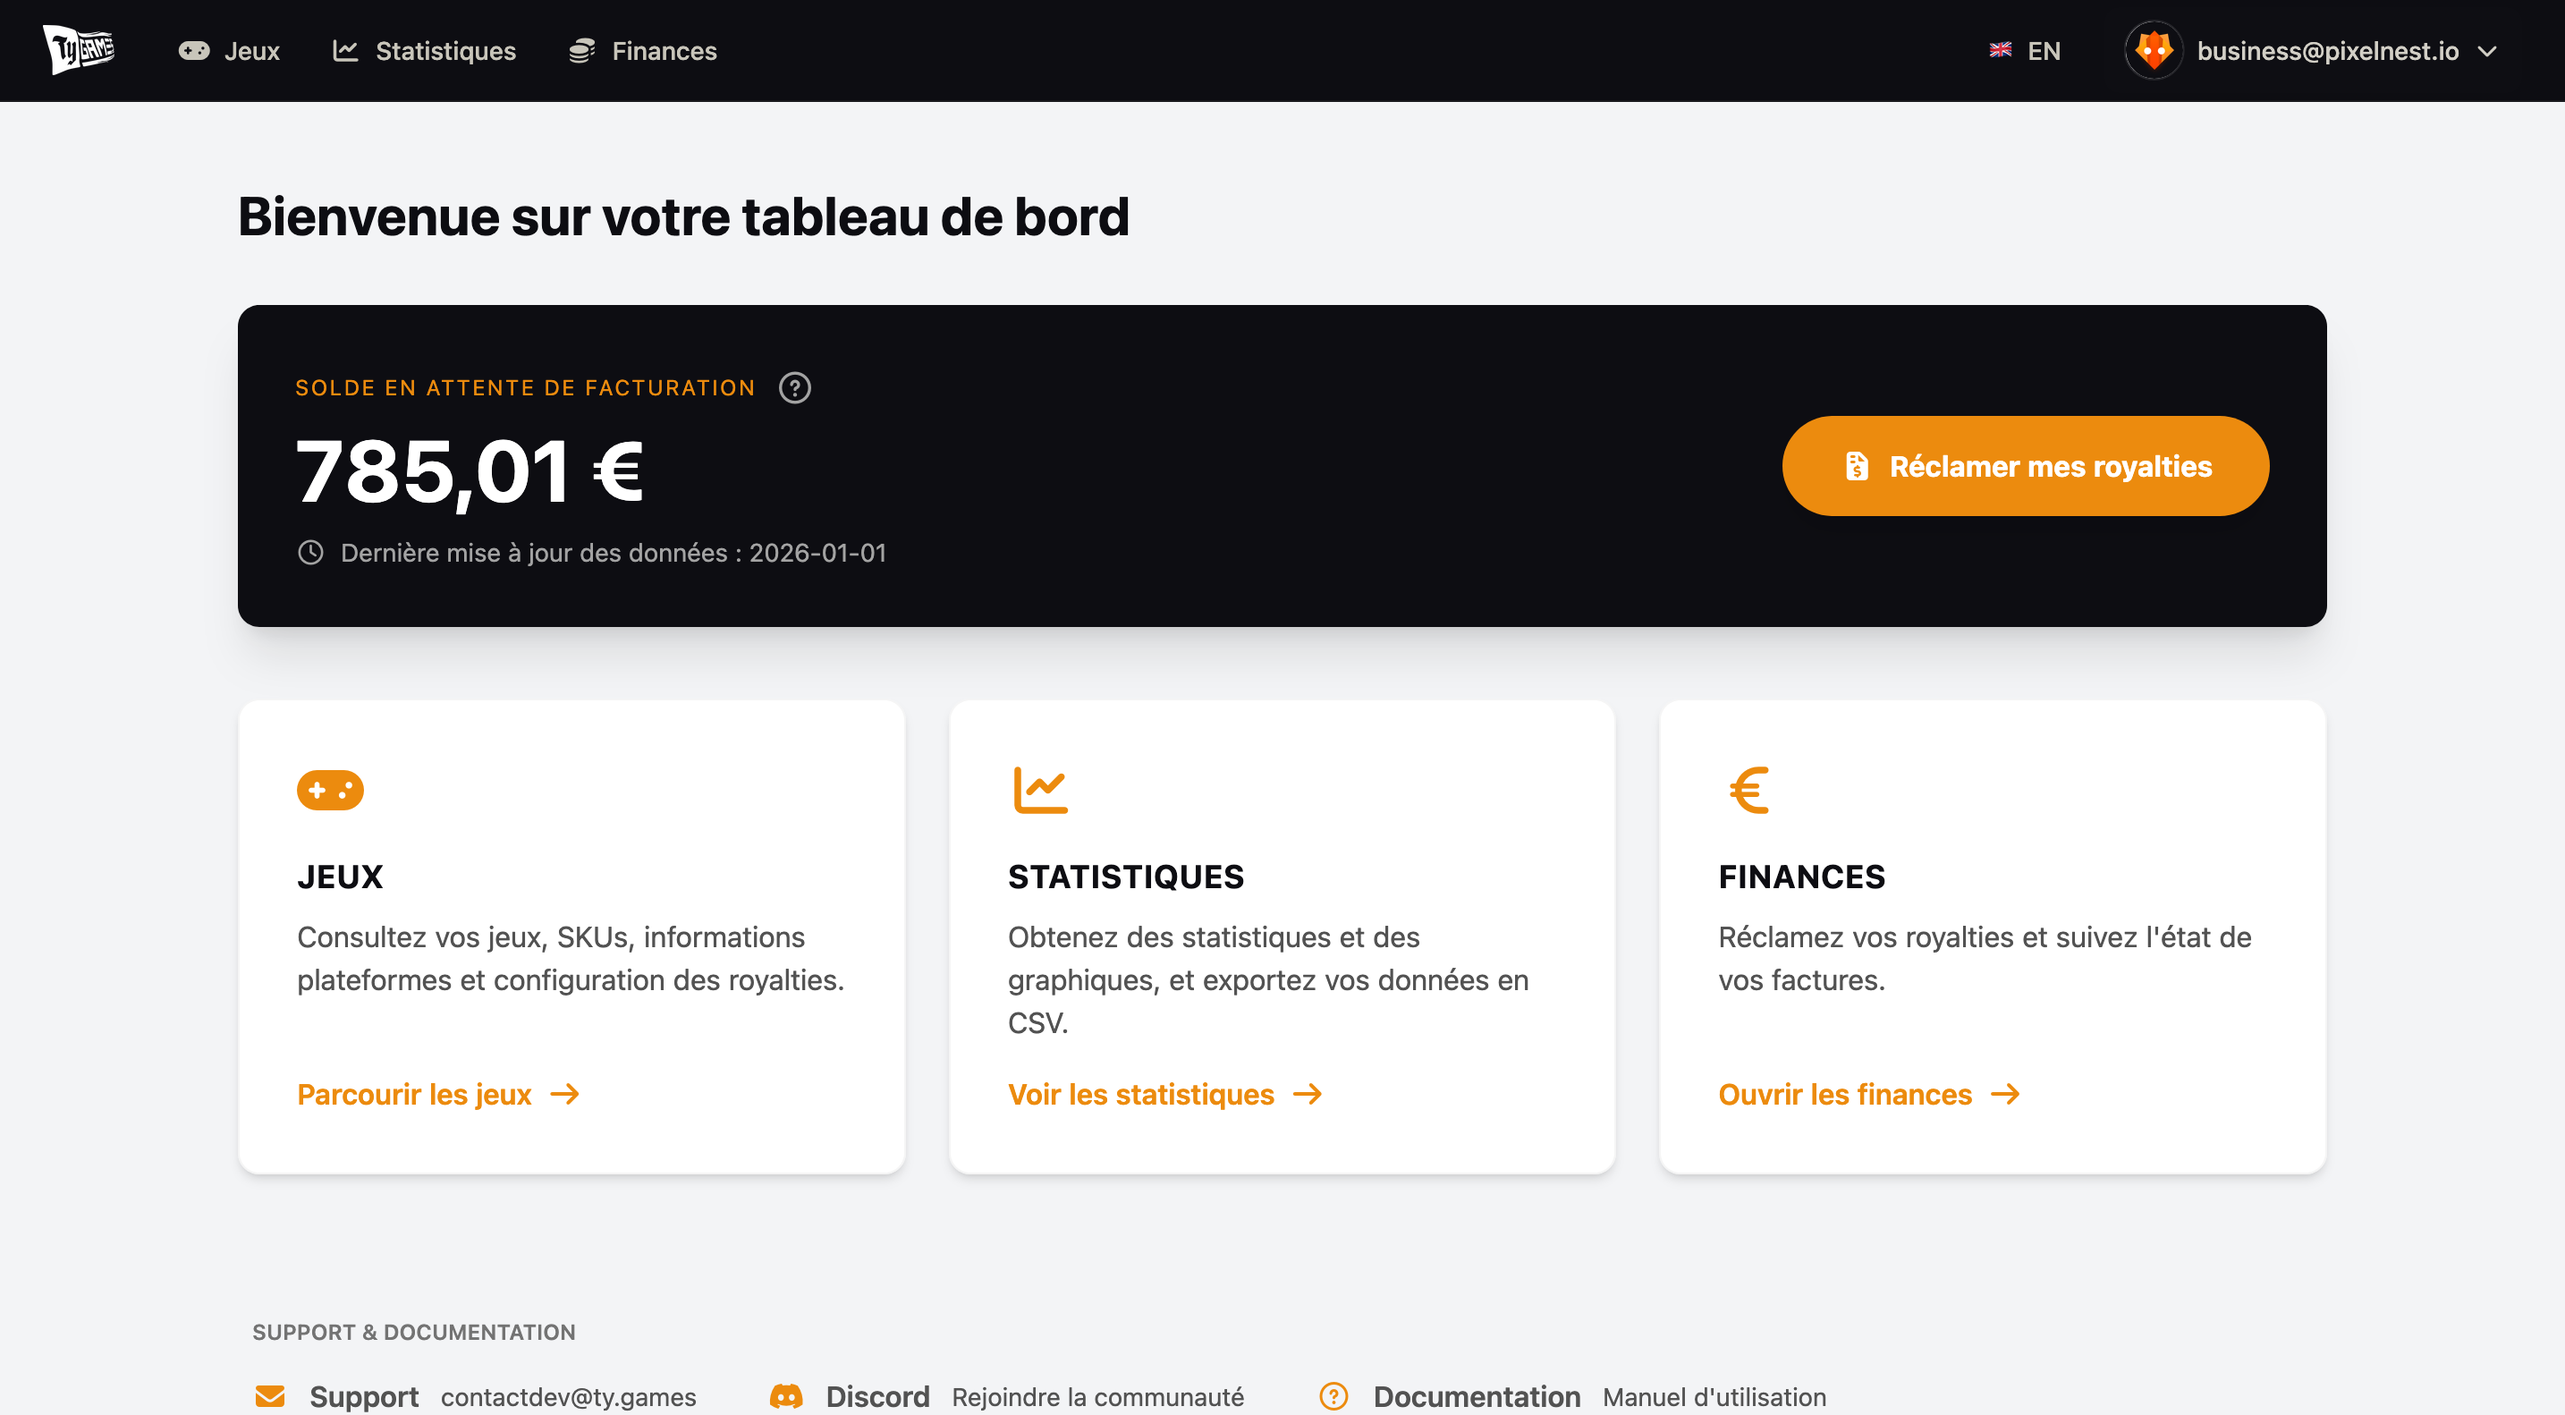
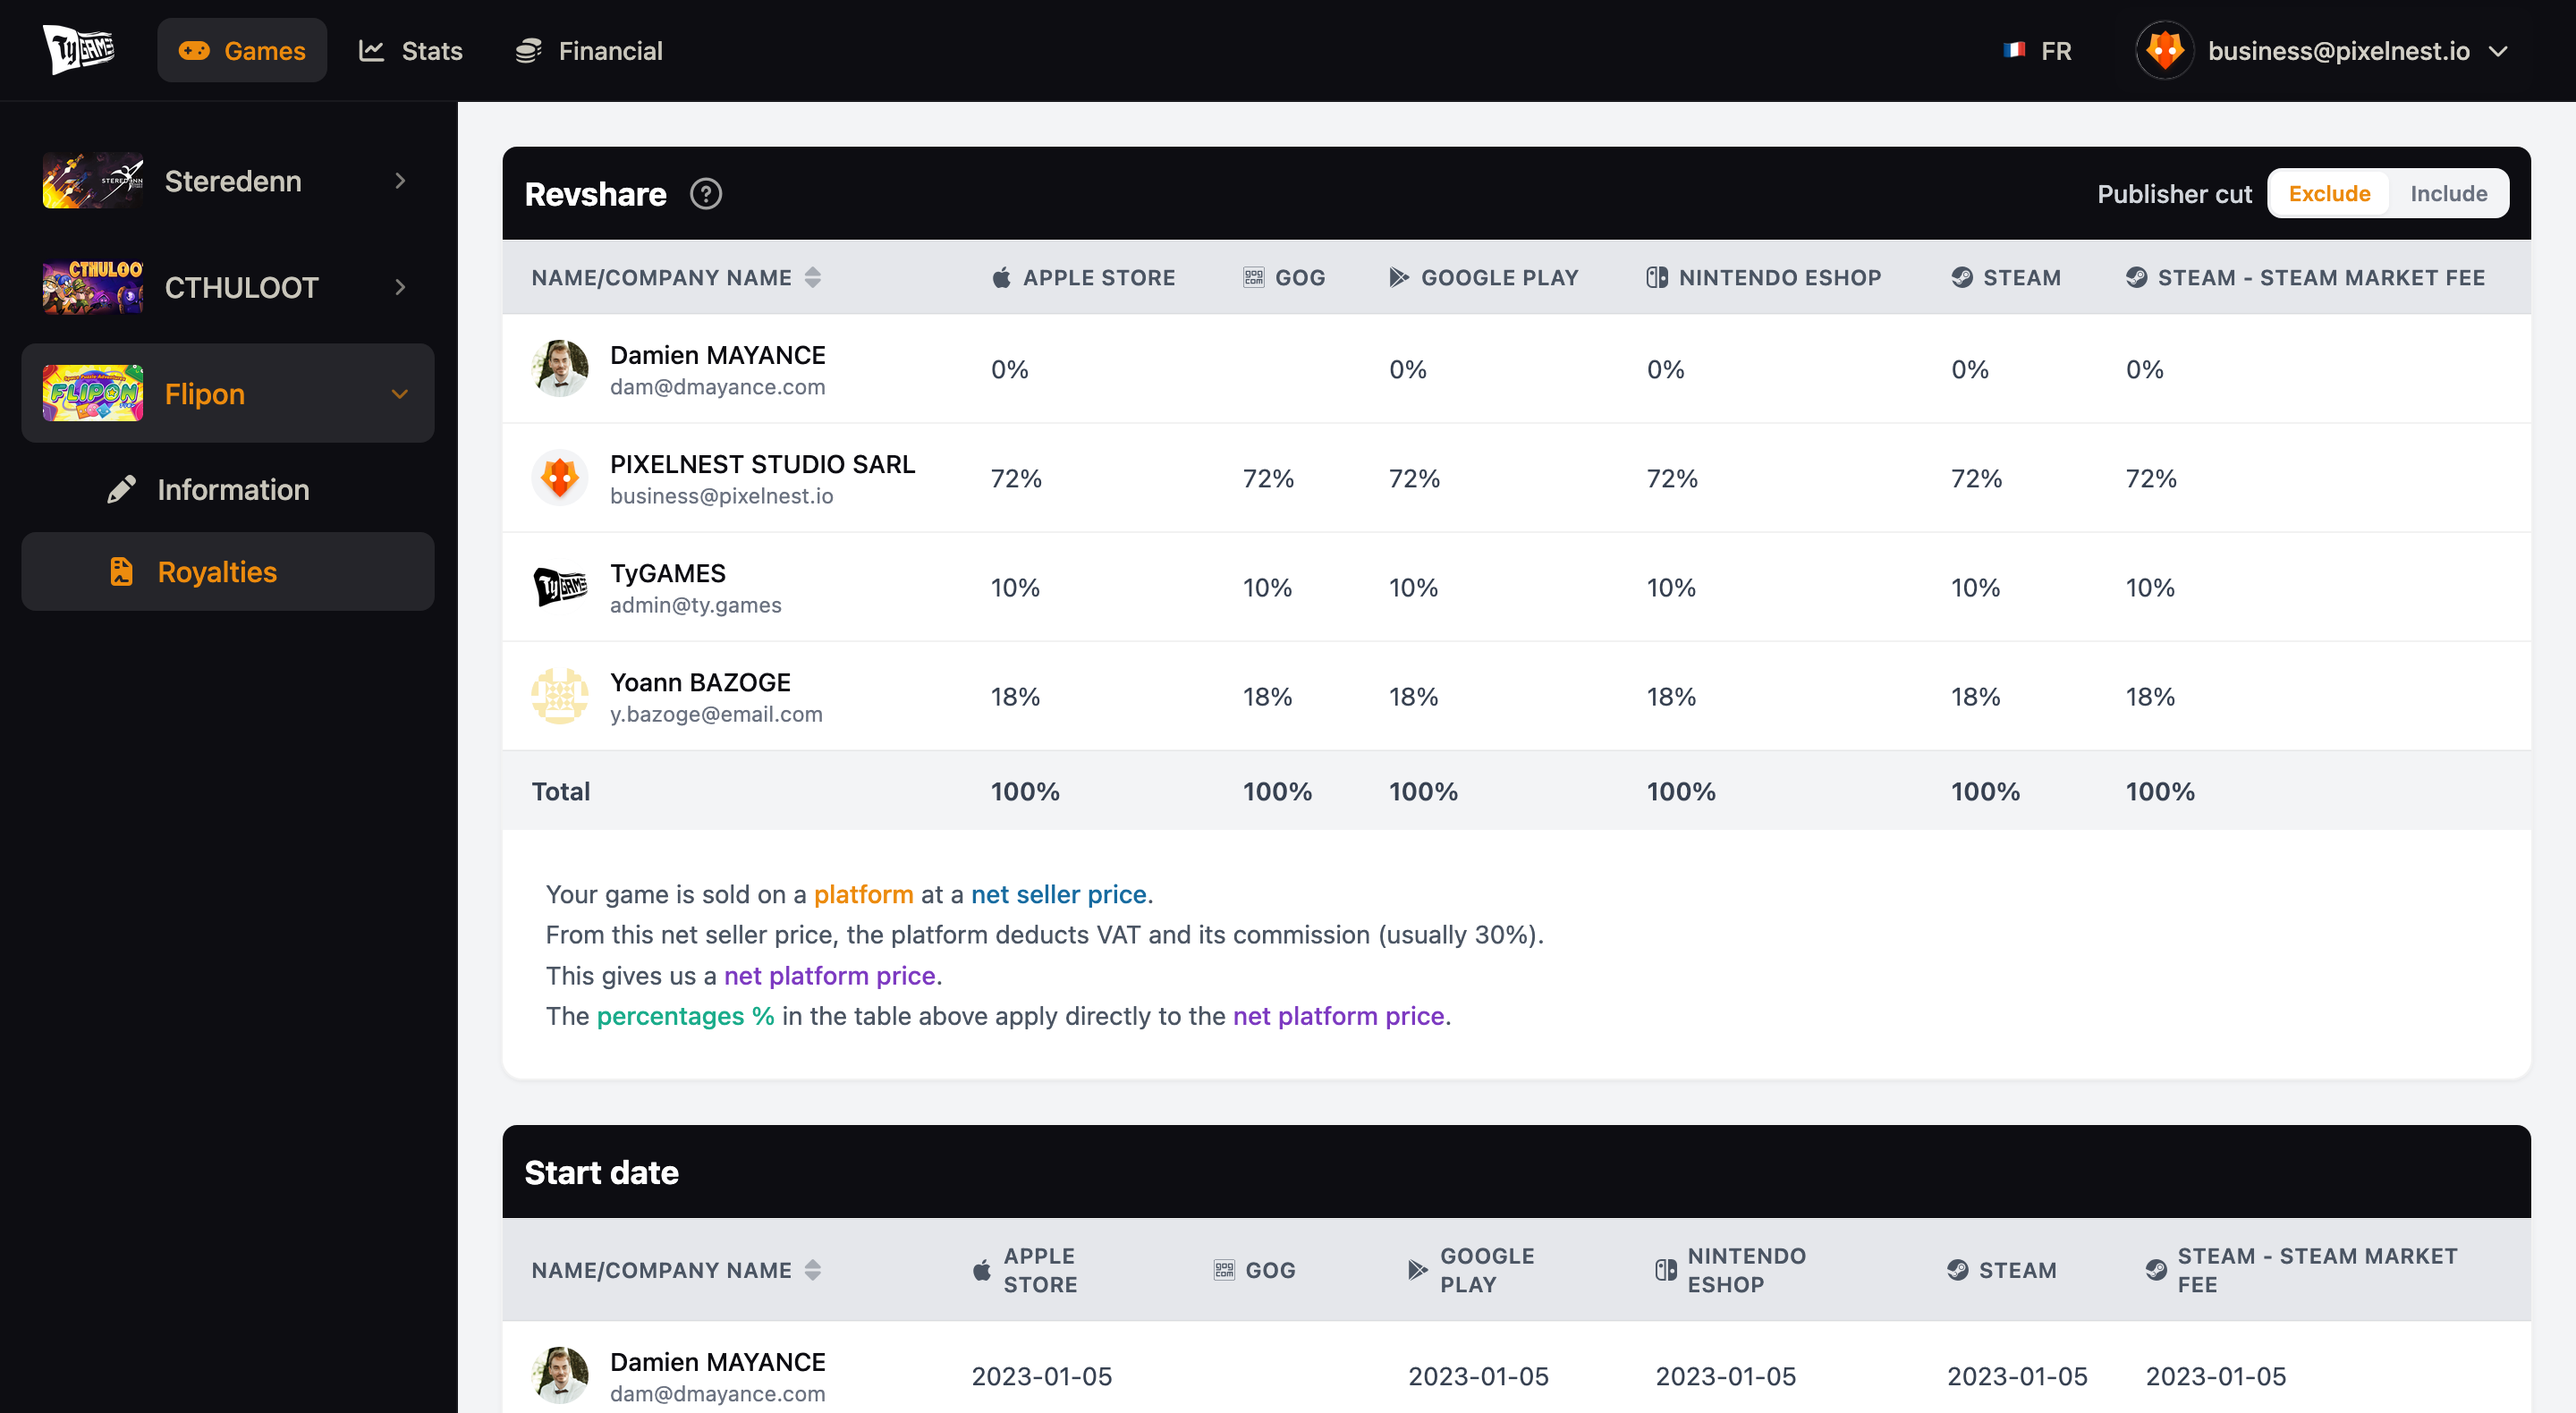
Add ERP page

diff --git a/_layouts/erp.html b/_layouts/erp.html
@@ -14,27 +14,27 @@ layout: page
 </section>
 
 <section class="section-padding bg-offwhite text-ink">
-  <div class="section-container">
-    <div class="grid md:grid-cols-2 gap-16 items-start text-ink/70">
-      <ul class="space-y-4">
-        {% for item in page.features %}
-        <li class="checklist-item">
-          <span class="checklist-check">✓</span>
-          <span class="text-sm leading-relaxed">{{ item }}</span>
-        </li>
-        {% endfor %}
-      </ul>
-
-      <div class="grid grid-cols-2 gap-3">
-        {% for n in (1..4) %}
-        <a href="{{ '/assets/img/erp/erp' | append: n | append: '.png' | relative_url }}" target="_blank" rel="noopener" data-lightbox class="rounded-xl overflow-hidden bg-white/5 border border-white/10 hover:border-accent transition-colors">
-          <img src="{{ '/assets/img/erp/erp' | append: n | append: '.png' | relative_url }}" alt="{{ page.screenshot_alt }} {{ n }}" class="w-full">
-        </a>
-        {% endfor %}
+  <div class="section-container space-y-10 md:space-y-12">
+    {% for section in page.sections %}
+    {% assign odd = forloop.index0 | modulo: 2 %}
+    <div class="grid md:grid-cols-2 gap-6 md:gap-10 items-center">
+      <div{% if odd == 1 %} class="md:order-last"{% endif %}>
+        <span class="card-number block leading-none">{{ section.number }}</span>
+        <h2 class="font-heading font-bold text-2xl md:text-3xl text-ink mb-3">{{ section.heading }}</h2>
+        <ul class="list-disc list-outside pl-5 space-y-2 text-ink/70 leading-relaxed">
+          {% for bullet in section.bullets %}
+          <li>{{ bullet }}</li>
+          {% endfor %}
+        </ul>
       </div>
-    </div>
 
-    <div class="text-center mt-12">
+      <a href="{{ '/assets/img/erp/' | append: section.screenshot | relative_url }}" target="_blank" rel="noopener" data-lightbox class="block rounded-xl overflow-hidden border border-ink/10 hover:border-accent transition-colors">
+        <img src="{{ '/assets/img/erp/' | append: section.screenshot | relative_url }}" alt="{{ section.heading }}" class="w-full" loading="lazy">
+      </a>
+    </div>
+    {% endfor %}
+
+    <div class="text-center">
       <a href="mailto:{{ site.email }}?subject={{ page.cta_subject | uri_escape }}" class="btn-primary px-10 py-4 text-lg">{{ page.cta_label }}</a>
     </div>
   </div>

diff --git a/assets/css/output.css b/assets/css/output.css
@@ -1673,6 +1673,18 @@ ul.distrib-card-body {
   margin-bottom: calc(1.5rem * var(--tw-space-y-reverse));
 }
 
+.space-y-16 > :not([hidden]) ~ :not([hidden]) {
+  --tw-space-y-reverse: 0;
+  margin-top: calc(4rem * calc(1 - var(--tw-space-y-reverse)));
+  margin-bottom: calc(4rem * var(--tw-space-y-reverse));
+}
+
+.space-y-10 > :not([hidden]) ~ :not([hidden]) {
+  --tw-space-y-reverse: 0;
+  margin-top: calc(2.5rem * calc(1 - var(--tw-space-y-reverse)));
+  margin-bottom: calc(2.5rem * var(--tw-space-y-reverse));
+}
+
 .divide-y > :not([hidden]) ~ :not([hidden]) {
   --tw-divide-y-reverse: 0;
   border-top-width: calc(1px * calc(1 - var(--tw-divide-y-reverse)));
@@ -2480,6 +2492,22 @@ ul.distrib-card-body {
 
   .md\:gap-20 {
     gap: 5rem;
+  }
+
+  .md\:gap-10 {
+    gap: 2.5rem;
+  }
+
+  .md\:space-y-24 > :not([hidden]) ~ :not([hidden]) {
+    --tw-space-y-reverse: 0;
+    margin-top: calc(6rem * calc(1 - var(--tw-space-y-reverse)));
+    margin-bottom: calc(6rem * var(--tw-space-y-reverse));
+  }
+
+  .md\:space-y-12 > :not([hidden]) ~ :not([hidden]) {
+    --tw-space-y-reverse: 0;
+    margin-top: calc(3rem * calc(1 - var(--tw-space-y-reverse)));
+    margin-bottom: calc(3rem * var(--tw-space-y-reverse));
   }
 
   .md\:border-t-0 {

diff --git a/_pages_fr/erp.md b/_pages_fr/erp.md
@@ -8,13 +8,37 @@ hero_h1_em: ERP
 hero_subtitle: "Le logiciel interne de TyGAMES, conçu pour centraliser et automatiser toute la gestion de la distribution et des royalties."
 cta_label: "Demander une démo"
 cta_subject: "Demande de démo ERP"
-screenshot_alt: "ERPirate - capture"
-features:
-  - "Gestion des données studios (nom, adresse, IBAN…)"
-  - "Unification des données de ventes de tous les stores en un seul format"
-  - "Accès des studios à leurs données de ventes via une interface web dédiée"
-  - "Génération de rapports PDF / appels à factures à la demande"
-  - "Calcul automatisé des royalties et répartition entre ayants droits"
-  - "Suivi de la recoupe et gestion des dettes contractualisées"
-  - "Régulations correctives"
+sections:
+  - number: "01"
+    heading: "Un outil tout en un"
+    screenshot: erp4.png
+    bullets:
+      - "Gestion du catalogue : jeux, DLCs, bundles"
+      - "Accès développeur / accès administrateur"
+      - "Installation prise en charge par TyGAMES"
+      - "Vos données restent chez vous"
+  - number: "02"
+    heading: "Gestion des royalties"
+    screenshot: erp1.png
+    bullets:
+      - "Accès développeur, studio, créateur·ice"
+      - "Calcul automatique des royalties"
+      - "Appel à facture sur demande ou régulier par e-mail"
+  - number: "03"
+    heading: "Statistiques et BI"
+    screenshot: erp2.png
+    bullets:
+      - "Outils de visualisation des ventes"
+      - "Suivi des appels à facture et de leur paiement"
+      - "Suivi des dettes et des dépenses éditeur"
+  - number: "04"
+    heading: "Administration de l'activité"
+    screenshot: erp3.png
+    bullets:
+      - "Import pour toutes les plateformes (PC, consoles, mobile)"
+      - "Configuration simplifiée des jeux et des utilisateurs"
+      - "Suivi de la recoupe"
+      - "Saisie des dépenses"
+      - "Régulations correctives"
+      - "Développement de fonctionnalités personnalisées possibles"
 ---

diff --git a/_pages_en/erp.md b/_pages_en/erp.md
@@ -8,13 +8,37 @@ hero_h1_em: ERP
 hero_subtitle: "TyGAMES' in-house software, built to centralise and automate distribution and royalties management."
 cta_label: "Request a demo"
 cta_subject: "ERP demo request"
-screenshot_alt: "ERPirate screenshot"
-features:
-  - "Studio data management (name, address, IBAN…)"
-  - "Sales data unified across every store into a single format"
-  - "Studio access to their sales data via a dedicated web interface"
-  - "On-demand PDF reports / invoice requests"
-  - "Automated royalty calculation and split between rights holders"
-  - "Recoupment tracking and contractualised debt management"
-  - "Corrective adjustments"
+sections:
+  - number: "01"
+    heading: "An all-in-one tool"
+    screenshot: erp4.png
+    bullets:
+      - "Catalogue management: games, DLCs, bundles"
+      - "Developer access / administrator access"
+      - "Installation handled by TyGAMES"
+      - "You keep your data"
+  - number: "02"
+    heading: "Royalties management"
+    screenshot: erp1.png
+    bullets:
+      - "Access for developers, studios and creators"
+      - "Automatic royalty calculation"
+      - "Invoice requests by email, on demand or on a regular schedule"
+  - number: "03"
+    heading: "Statistics and BI"
+    screenshot: erp2.png
+    bullets:
+      - "Sales visualisation tools"
+      - "Tracking of invoice requests and their payment"
+      - "Tracking of debts and publisher expenses"
+  - number: "04"
+    heading: "Business administration"
+    screenshot: erp3.png
+    bullets:
+      - "Imports for every platform (PC, consoles, mobile)"
+      - "Simplified setup of games and users"
+      - "Recoupment tracking"
+      - "Expense entry"
+      - "Corrective adjustments"
+      - "Custom feature development available"
 ---

diff --git a/_pages_en/invest.md b/_pages_en/invest.md
@@ -33,7 +33,7 @@ reminders:
     - heading: "Locked capital"
       body: "The money invested may be locked for several years and is therefore not available in the short term."
     - heading: "No capital gains on shares"
-      body: "The cooperative prevents capital gains on social shares. At best, you will recover the same amount invested when leaving the membership. Dividends are possible, however."
+      body: "The cooperative strongly limits capital gains on social shares. At best, you will recover the same amount invested when leaving the membership. Dividends are possible, however."
 subscribe:
   heading: "I'm ready!"
   intro: "Great! Here's how:"
